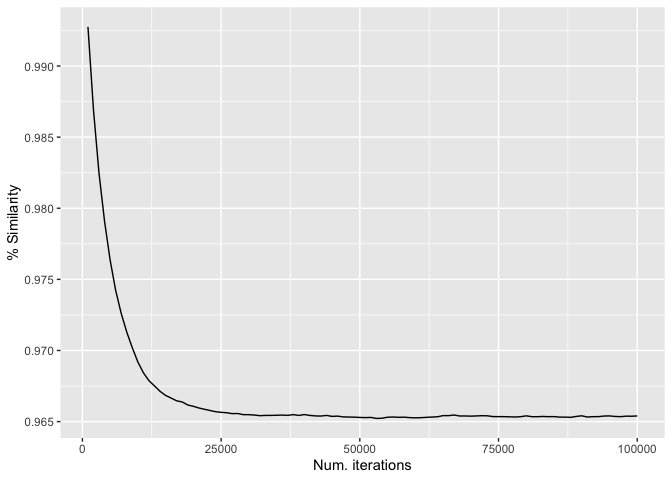
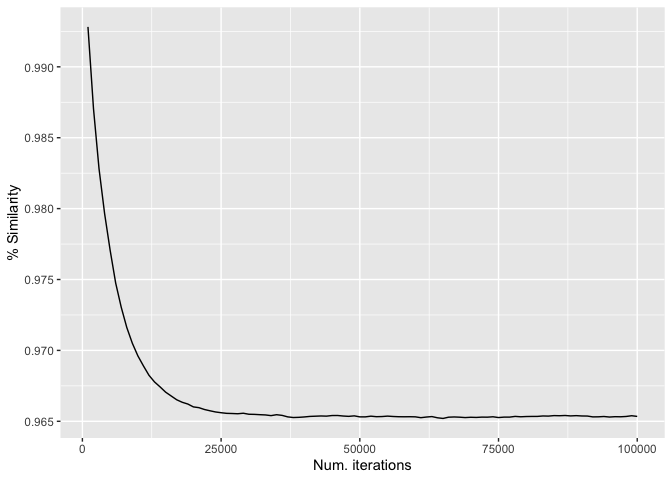
Update tutorial

diff --git a/tutorials/canaper.md b/tutorials/canaper.md
@@ -1,5 +1,4 @@
-Spatial phylogenetics in R with canaper
-================
+# Spatial phylogenetics in R with canaper
 
 This tutorial demonstrates how to use
 [`canaper`](https://github.com/ropensci/canaper) to conduct spatial
@@ -97,15 +96,24 @@ dim(acacia$comm)
 acacia$comm[1:8, 1:8]
 ```
 
-                      abbreviata acanthaster acanthoclada acinacea aciphylla acoma acradenia acrionastes
-    -1025000:-1825000          0           0            0        0         0     0         0           0
-    -1025000:-1875000          0           0            0        0         0     0         0           0
-    -1025000:-1925000          0           0            0        0         0     0         0           0
-    -1025000:-1975000          0           0            0        0         0     0         0           0
-    -1025000:-2025000          0           0            0        0         0     0         0           0
-    -1025000:-2075000          0           0            0        0         0     0         0           0
-    -1025000:-2125000          0           0            0        0         0     0         0           0
-    -1025000:-2225000          0           0            0        0         0     0         0           0
+                      abbreviata acanthaster acanthoclada acinacea aciphylla acoma
+    -1025000:-1825000          0           0            0        0         0     0
+    -1025000:-1875000          0           0            0        0         0     0
+    -1025000:-1925000          0           0            0        0         0     0
+    -1025000:-1975000          0           0            0        0         0     0
+    -1025000:-2025000          0           0            0        0         0     0
+    -1025000:-2075000          0           0            0        0         0     0
+    -1025000:-2125000          0           0            0        0         0     0
+    -1025000:-2225000          0           0            0        0         0     0
+                      acradenia acrionastes
+    -1025000:-1825000         0           0
+    -1025000:-1875000         0           0
+    -1025000:-1925000         0           0
+    -1025000:-1975000         0           0
+    -1025000:-2025000         0           0
+    -1025000:-2075000         0           0
+    -1025000:-2125000         0           0
+    -1025000:-2225000         0           0
 
 ## About randomizations
 
@@ -186,16 +194,16 @@ biod_iter_sim_res
     # A tibble: 1,000 × 2
        iteration similarity
            <int>      <dbl>
-     1        10      0.992
-     2        20      0.981
-     3        30      0.975
-     4        40      0.961
-     5        50      0.956
-     6        60      0.951
-     7        70      0.947
-     8        80      0.943
-     9        90      0.934
-    10       100      0.927
+     1        10      0.994
+     2        20      0.985
+     3        30      0.978
+     4        40      0.969
+     5        50      0.961
+     6        60      0.956
+     7        70      0.952
+     8        80      0.945
+     9        90      0.941
+    10       100      0.937
     # ℹ 990 more rows
 
 The output is simple: just two columns. But its hard to gain much
@@ -309,6 +317,107 @@ consistent when the number of reps has been set to at least 1,000.
 The number of reps needed is somewhat less variable than number of
 iterations across datasets. 1,000 is a good rule of thumb, but I still
 recommend testing with an analysis like this one to be sure.
+
+## Randomization test
+
+Now that we have decided on settings for the randomization (at least
+1,000 replicates of 2,000 iterations each), we will run the
+randomization test.
+
+The function to do this is canaper is `cpr_rand_test()`, which outputs a
+dataframe:
+
+``` r
+biod_example_rand_res <- cpr_rand_test(
+  biod_example$comm, biod_example$phy,
+  null_model = "curveball",
+  n_reps = 1000, n_iterations = 2000,
+  tbl_out = TRUE
+)
+```
+
+    Warning: Abundance data detected. Results will be the same as if using
+    presence/absence data (no abundance weighting is used).
+
+``` r
+biod_example_rand_res
+```
+
+    # A tibble: 127 × 55
+       site    pd_obs pd_rand_mean pd_rand_sd pd_obs_z pd_obs_c_upper pd_obs_c_lower
+       <chr>    <dbl>        <dbl>      <dbl>    <dbl>          <dbl>          <dbl>
+     1 195000… 0.0469       0.0469   5.04e-18    1.38             491              0
+     2 195000… 0.0469       0.0469   5.01e-18    1.38             491              0
+     3 205000… 0.0931       0.0870   6.83e- 3    0.893            759            220
+     4 205000… 0.0469       0.0469   4.92e-18    0                458              0
+     5 215000… 0.0469       0.0469   4.95e-18   -1.40              11            525
+     6 215000… 0.0683       0.0869   6.95e- 3   -2.67               7            986
+     7 215000… 0.0931       0.0873   6.74e- 3    0.854            751            231
+     8 225000… 0.0469       0.0469   4.96e-18   -1.40              11            522
+     9 225000… 0.0931       0.0871   6.97e- 3    0.855            721            267
+    10 225000… 0.182        0.196    1.41e- 2   -1.00             162            838
+    # ℹ 117 more rows
+    # ℹ 48 more variables: pd_obs_q <dbl>, pd_obs_p_upper <dbl>,
+    #   pd_obs_p_lower <dbl>, pd_alt_obs <dbl>, pd_alt_rand_mean <dbl>,
+    #   pd_alt_rand_sd <dbl>, pd_alt_obs_z <dbl>, pd_alt_obs_c_upper <dbl>,
+    #   pd_alt_obs_c_lower <dbl>, pd_alt_obs_q <dbl>, pd_alt_obs_p_upper <dbl>,
+    #   pd_alt_obs_p_lower <dbl>, rpd_obs <dbl>, rpd_rand_mean <dbl>,
+    #   rpd_rand_sd <dbl>, rpd_obs_z <dbl>, rpd_obs_c_upper <dbl>, …
+
+There are a lot of columns. We can decipher what they mean though by
+using a few keywords: columns starting with `pd` are values of
+phylogenetic diversity, `rpd` is relative phylogenetic diversity, `pe`
+is phylogenetic endemism, etc. Next, those with `rand` refer to values
+from the randomization, whereas those with `obs` are the observed value.
+
+So `pd_obs` is observed PD, `pd_rand_mean` is the mean of the random PD
+values, etc.
+
+While we don’t have time to go into all of these right now, but if you
+need to go back and look at any of the results in detail they are all
+there.
+
+## Classify endemism
+
+The next step is to classify endemism types based on the results of the
+randomization test. This is done with `cpr_classify_endem()`. Just give
+it the randomization results and it will add a column with endemism
+type:
+
+``` r
+biod_example_canape <- cpr_classify_endem(biod_example_rand_res)
+
+select(biod_example_canape, endem_type)
+```
+
+    # A tibble: 127 × 1
+       endem_type     
+       <chr>          
+     1 not significant
+     2 not significant
+     3 not significant
+     4 not significant
+     5 not significant
+     6 not significant
+     7 not significant
+     8 not significant
+     9 not significant
+    10 not significant
+    # ℹ 117 more rows
+
+Let’s count these to see how many times the different endemism types
+were observed:
+
+``` r
+count(biod_example_canape, endem_type)
+```
+
+    # A tibble: 3 × 2
+      endem_type          n
+      <chr>           <int>
+    1 mixed               7
+    2 not significant   118
+    3 paleo               2
 
 [^1]: You might think the dataset is all zeros, but that is not the
     case. It is just very sparse.
